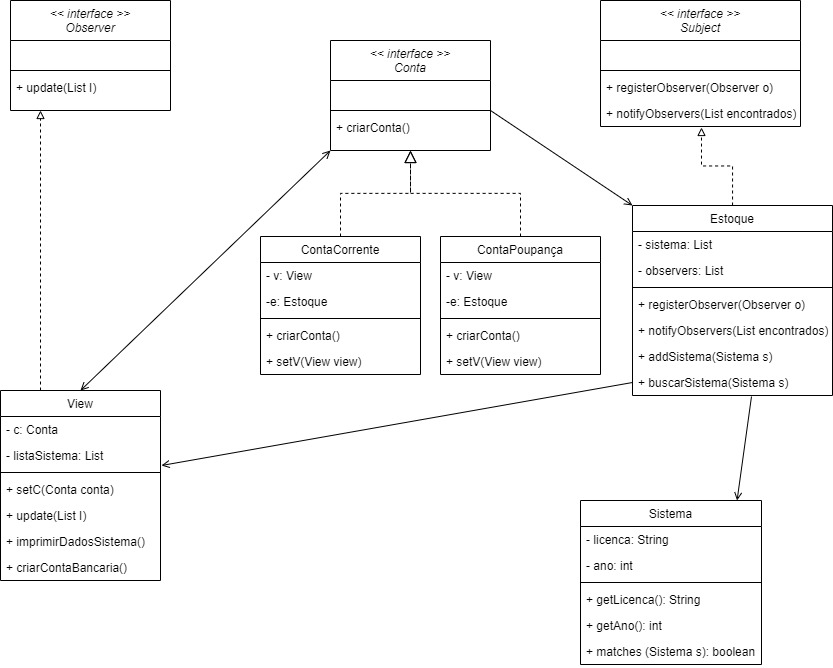
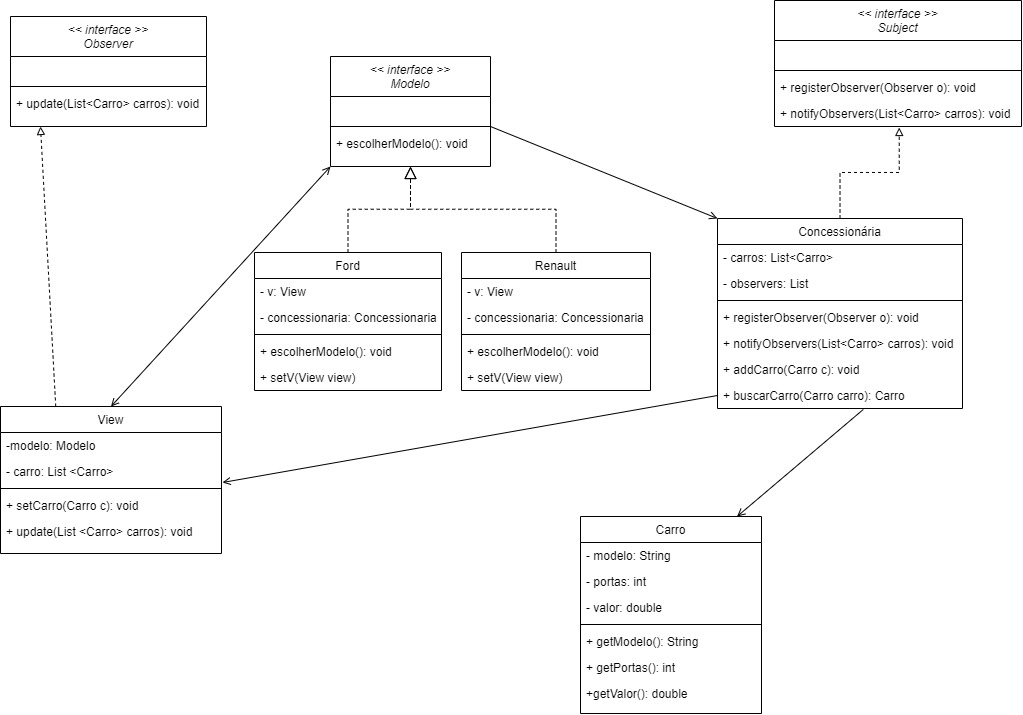
mvc

diff --git a/Engenharia de software III/MVC/codigo/Concessionaria.java b/Engenharia de software III/MVC/codigo/Concessionaria.java
@@ -1,0 +1,34 @@
+import java.util.ArrayList;
+import java.util.List;
+
+public class Concessionaria implements Subject {
+    private List<Carro> carros;
+    private List<Observer> observers;
+
+    public Concessionaria() {
+        carros = new ArrayList<>();
+        observers = new ArrayList<>();
+    }
+
+    @Override
+    public void registerObserver(Observer o) {
+        observers.add(o);
+    }
+
+    @Override
+    public void notifyObservers(List<Carro> novosCarros) {
+        for (Observer observer : observers) {
+            observer.update(novosCarros);
+        }
+    }
+
+    public void addCarro(Carro carro) {
+        carros.add(carro);
+        notifyObservers(carros);
+    }
+
+    public Carro buscarCarro(Carro carro) {
+        return null;
+    }
+}
+

diff --git a/Engenharia de software III/MVC/codigo/View.java b/Engenharia de software III/MVC/codigo/View.java
@@ -1,8 +1,15 @@
 import java.util.List;
 
-public interface View {
-    void setC(Conta conta);
-    void update(List<Conta> contaList);
-    void imprimirDadosSistema();
-    void criarContaBancaria();
+public class View {
+    private Modelo modelo;
+    private List<Carro> carros;
+
+    public void setCarro(Carro c) {
+        this.carros.add(c);
+    }
+
+    public void update(List<Carro> carros) {
+        this.carros = carros;
+    }
 }
+

diff --git a/Engenharia de software III/MVC/codigo/Carro.java b/Engenharia de software III/MVC/codigo/Carro.java
@@ -1,0 +1,17 @@
+public class Carro {
+    private String modelo;
+    private int portas;
+    private double valor;
+
+    public String getModelo() {
+        return modelo;
+    }
+
+    public int getPortas() {
+        return portas;
+    }
+
+    public double getValor() {
+        return valor;
+    }
+}

diff --git a/Engenharia de software III/MVC/codigo/Renault.java b/Engenharia de software III/MVC/codigo/Renault.java
@@ -1,0 +1,12 @@
+public class Renault implements Modelo {
+    private View v;
+    private Concessionaria concessionaria;
+
+    public void escolherModelo() {
+        this.v.setCarro(new Carro("Renault", 5, 20000.00));
+    }
+
+    public void setV(View view) {
+        this.v = view;
+    }
+}

diff --git a/Engenharia de software III/MVC/codigo/Ford.java b/Engenharia de software III/MVC/codigo/Ford.java
@@ -1,0 +1,12 @@
+public class Ford implements Modelo {
+    private View v;
+    private Concessionaria concessionaria;
+
+    public void escolherModelo() {
+        this.v.setCarro(new Carro("Ford", 4, 25000.00));
+    }
+
+    public void setV(View view) {
+        this.v = view;
+    }
+}

diff --git a/Engenharia de software III/MVC/codigo/Subject.java b/Engenharia de software III/MVC/codigo/Subject.java
@@ -2,5 +2,5 @@ import java.util.List;
 
 public interface Subject {
     void registerObserver(Observer o);
-    void notifyObservers(List<Conta> encontrados);
+    void notifyObservers(List<Carro> carros);
 }

diff --git a/Engenharia de software III/MVC/codigo/Observer.java b/Engenharia de software III/MVC/codigo/Observer.java
@@ -1,5 +1,5 @@
 import java.util.List;
 
 public interface Observer {
-    void update(List<Conta> contaList);
+    void update(List<Carro> carros);
 }

diff --git a/Engenharia de software III/MVC/codigo/Modelo.java b/Engenharia de software III/MVC/codigo/Modelo.java
@@ -1,0 +1,3 @@
+public interface Modelo {
+    void escolherModelo();
+}
